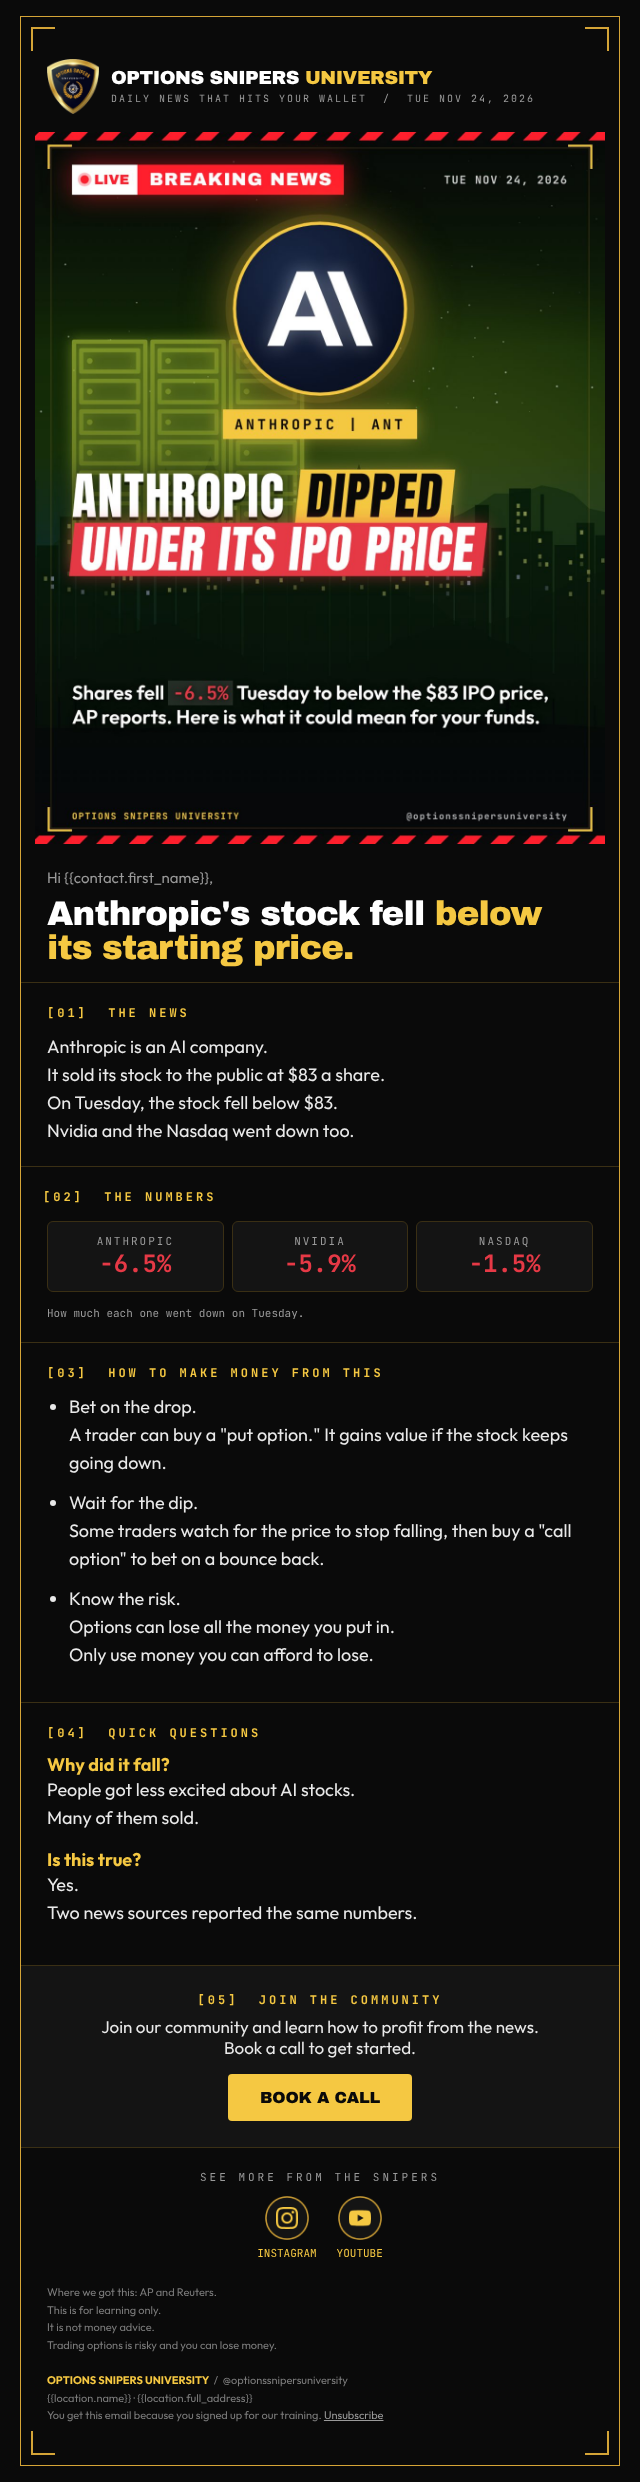
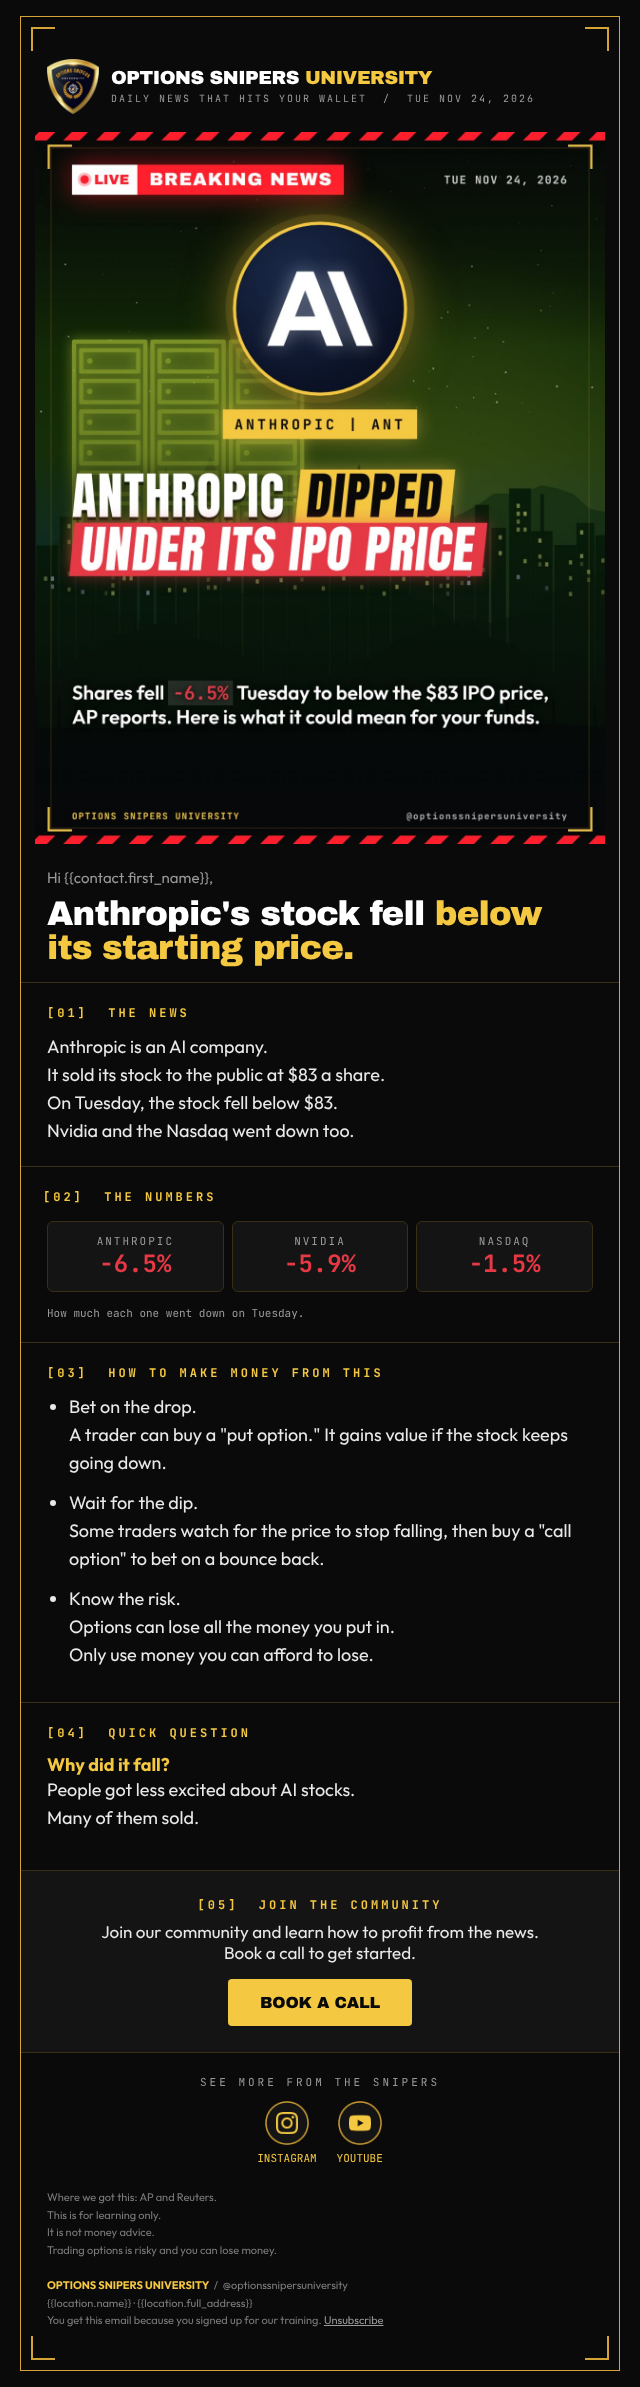
Newsletter: remove 'Is this true' Q&A
Claude-Session: https://claude.ai/code/session_012Jnj24W5oP8eoSDNkGANUC

diff --git a/newsletter/sample/preview.html b/newsletter/sample/preview.html
@@ -12,7 +12,7 @@
 <tr><td style="padding:22px 26px;border-top:1px solid #3a2f14;"><div style="font-family:'JetBrains Mono','Courier New',monospace;font-size:12px;font-weight:bold;letter-spacing:3px;color:#F5C842;margin-bottom:12px;">[01] &nbsp;THE NEWS</div><p style="font-family:'Outfit',Arial,Helvetica,sans-serif;font-size:18px;line-height:1.55;color:#E9E9E9;margin:0;">Anthropic is an AI company.<br>It sold its stock to the public at $83 a share.<br>On Tuesday, the stock fell below $83.<br>Nvidia and the Nasdaq went down too.</p></td></tr>
 <tr><td style="padding:22px 22px;border-top:1px solid #3a2f14;"><div style="font-family:'JetBrains Mono','Courier New',monospace;font-size:12px;font-weight:bold;letter-spacing:3px;color:#F5C842;margin-bottom:12px;">[02] &nbsp;THE NUMBERS</div><table role="presentation" width="100%" cellpadding="0" cellspacing="0"><tr><td width="33%" style="padding:4px;"><div style="background:#141414;border:1px solid #3a2f14;border-radius:6px;padding:12px 6px;text-align:center;"><div style="font-family:'JetBrains Mono','Courier New',monospace;font-size:11px;letter-spacing:2px;color:#9a9a9a;">ANTHROPIC</div><div style="font-family:'JetBrains Mono','Courier New',monospace;font-size:24px;font-weight:bold;color:#E63946;">-6.5%</div></div></td><td width="33%" style="padding:4px;"><div style="background:#141414;border:1px solid #3a2f14;border-radius:6px;padding:12px 6px;text-align:center;"><div style="font-family:'JetBrains Mono','Courier New',monospace;font-size:11px;letter-spacing:2px;color:#9a9a9a;">NVIDIA</div><div style="font-family:'JetBrains Mono','Courier New',monospace;font-size:24px;font-weight:bold;color:#E63946;">-5.9%</div></div></td><td width="33%" style="padding:4px;"><div style="background:#141414;border:1px solid #3a2f14;border-radius:6px;padding:12px 6px;text-align:center;"><div style="font-family:'JetBrains Mono','Courier New',monospace;font-size:11px;letter-spacing:2px;color:#9a9a9a;">NASDAQ</div><div style="font-family:'JetBrains Mono','Courier New',monospace;font-size:24px;font-weight:bold;color:#E63946;">-1.5%</div></div></td></tr></table><p style="font-family:'JetBrains Mono','Courier New',monospace;font-size:11px;color:#9a9a9a;margin:10px 4px 0;">How much each one went down on Tuesday.</p></td></tr>
 <tr><td style="padding:22px 26px;border-top:1px solid #3a2f14;"><div style="font-family:'JetBrains Mono','Courier New',monospace;font-size:12px;font-weight:bold;letter-spacing:3px;color:#F5C842;margin-bottom:12px;">[03] &nbsp;HOW TO MAKE MONEY FROM THIS</div><ul style="font-family:'Outfit',Arial,Helvetica,sans-serif;font-size:18px;line-height:1.55;color:#E9E9E9;margin:0;padding-left:22px;"><li style="margin-bottom:12px;">Bet on the drop.<br>A trader can buy a "put option." It gains value if the stock keeps going down.</li><li style="margin-bottom:12px;">Wait for the dip.<br>Some traders watch for the price to stop falling, then buy a "call option" to bet on a bounce back.</li><li style="margin-bottom:12px;">Know the risk.<br>Options can lose all the money you put in.<br>Only use money you can afford to lose.</li></ul></td></tr>
-<tr><td style="padding:22px 26px;border-top:1px solid #3a2f14;"><div style="font-family:'JetBrains Mono','Courier New',monospace;font-size:12px;font-weight:bold;letter-spacing:3px;color:#F5C842;margin-bottom:12px;">[04] &nbsp;QUICK QUESTIONS</div><div style="margin-bottom:16px;"><div style="font-family:'Outfit',Arial,Helvetica,sans-serif;font-size:18px;font-weight:bold;color:#F5C842;">Why did it fall?</div><div style="font-family:'Outfit',Arial,Helvetica,sans-serif;font-size:18px;line-height:1.55;color:#E9E9E9;margin:0;">People got less excited about AI stocks.<br>Many of them sold.</div></div><div style="margin-bottom:16px;"><div style="font-family:'Outfit',Arial,Helvetica,sans-serif;font-size:18px;font-weight:bold;color:#F5C842;">Is this true?</div><div style="font-family:'Outfit',Arial,Helvetica,sans-serif;font-size:18px;line-height:1.55;color:#E9E9E9;margin:0;">Yes.<br>Two news sources reported the same numbers.</div></div></td></tr>
+<tr><td style="padding:22px 26px;border-top:1px solid #3a2f14;"><div style="font-family:'JetBrains Mono','Courier New',monospace;font-size:12px;font-weight:bold;letter-spacing:3px;color:#F5C842;margin-bottom:12px;">[04] &nbsp;QUICK QUESTION</div><div style="margin-bottom:16px;"><div style="font-family:'Outfit',Arial,Helvetica,sans-serif;font-size:18px;font-weight:bold;color:#F5C842;">Why did it fall?</div><div style="font-family:'Outfit',Arial,Helvetica,sans-serif;font-size:18px;line-height:1.55;color:#E9E9E9;margin:0;">People got less excited about AI stocks.<br>Many of them sold.</div></div></td></tr>
 <tr><td align="center" style="padding:26px;border-top:1px solid #3a2f14;background:#141414;"><div style="font-family:'JetBrains Mono','Courier New',monospace;font-size:12px;font-weight:bold;letter-spacing:3px;color:#F5C842;margin-bottom:8px;">[05] &nbsp;JOIN THE COMMUNITY</div><div style="font-family:'Outfit',Arial,Helvetica,sans-serif;font-size:17px;color:#E9E9E9;margin-bottom:16px;">Join our community and learn how to profit from the news.<br>Book a call to get started.</div><a href="https://example.com/book" style="display:inline-block;background:#F5C842;color:#0A0A0A;font-family:'Archivo Black','Arial Black',Arial,sans-serif;font-size:16px;letter-spacing:-0.01em;text-decoration:none;padding:15px 32px;border-radius:4px;">BOOK A CALL</a></td></tr>
 <tr><td align="center" style="padding:22px 26px 4px;border-top:1px solid #3a2f14;"><div style="font-family:'JetBrains Mono','Courier New',monospace;font-size:11px;letter-spacing:3px;color:#9a9a9a;margin-bottom:12px;">SEE MORE FROM THE SNIPERS</div><table role="presentation" cellpadding="0" cellspacing="0"><tr><td style="padding:0 10px;" align="center"><a href="https://www.instagram.com/optionssnipersuniversity" style="text-decoration:none;"><img src="../icon-instagram.png" width="44" height="44" alt="Instagram" style="display:block;border:0;margin:0 auto;"><div style="font-family:'JetBrains Mono','Courier New',monospace;font-size:11px;color:#F5C842;margin-top:6px;">INSTAGRAM</div></a></td><td style="padding:0 10px;" align="center"><a href="https://www.youtube.com/channel/UCYdhQjWVViYLeouiSkUQpXQ" style="text-decoration:none;"><img src="../icon-youtube.png" width="44" height="44" alt="YouTube" style="display:block;border:0;margin:0 auto;"><div style="font-family:'JetBrains Mono','Courier New',monospace;font-size:11px;color:#F5C842;margin-top:6px;">YOUTUBE</div></a></td></tr></table></td></tr>
 <tr><td style="padding:20px 26px 6px;font-family:'Outfit',Arial,Helvetica,sans-serif;font-size:11px;line-height:1.6;color:#7c7c7c;">Where we got this: AP and Reuters.<br>This is for learning only.<br>It is not money advice.<br>Trading options is risky and you can lose money.<br><br><strong style="color:#F5C842;">OPTIONS SNIPERS UNIVERSITY</strong> &nbsp;/&nbsp; @optionssnipersuniversity<br>{{location.name}} · {{location.full_address}}<br>You get this email because you signed up for our training. <a href="{{unsubscribe_link}}" style="color:#9a9a9a;">Unsubscribe</a></td></tr>

diff --git a/newsletter/email-template.html b/newsletter/email-template.html
@@ -12,7 +12,7 @@
 <tr><td style="padding:22px 26px;border-top:1px solid #3a2f14;"><div style="font-family:'JetBrains Mono','Courier New',monospace;font-size:12px;font-weight:bold;letter-spacing:3px;color:#F5C842;margin-bottom:12px;">[01] &nbsp;THE NEWS</div><p style="font-family:'Outfit',Arial,Helvetica,sans-serif;font-size:18px;line-height:1.55;color:#E9E9E9;margin:0;">[[THE NEWS: 3 short sentences.<br>Who, what, when.<br>Each sentence goes on its own line.]]</p></td></tr>
 <tr><td style="padding:22px 22px;border-top:1px solid #3a2f14;"><div style="font-family:'JetBrains Mono','Courier New',monospace;font-size:12px;font-weight:bold;letter-spacing:3px;color:#F5C842;margin-bottom:12px;">[02] &nbsp;THE NUMBERS</div><table role="presentation" width="100%" cellpadding="0" cellspacing="0"><tr><td width="33%" style="padding:4px;"><div style="background:#141414;border:1px solid #3a2f14;border-radius:6px;padding:12px 6px;text-align:center;"><div style="font-family:'JetBrains Mono','Courier New',monospace;font-size:11px;letter-spacing:2px;color:#9a9a9a;">[[T1_NAME]]</div><div style="font-family:'JetBrains Mono','Courier New',monospace;font-size:24px;font-weight:bold;color:#E63946;">[[T1_MOVE]]</div></div></td><td width="33%" style="padding:4px;"><div style="background:#141414;border:1px solid #3a2f14;border-radius:6px;padding:12px 6px;text-align:center;"><div style="font-family:'JetBrains Mono','Courier New',monospace;font-size:11px;letter-spacing:2px;color:#9a9a9a;">[[T2_NAME]]</div><div style="font-family:'JetBrains Mono','Courier New',monospace;font-size:24px;font-weight:bold;color:#E63946;">[[T2_MOVE]]</div></div></td><td width="33%" style="padding:4px;"><div style="background:#141414;border:1px solid #3a2f14;border-radius:6px;padding:12px 6px;text-align:center;"><div style="font-family:'JetBrains Mono','Courier New',monospace;font-size:11px;letter-spacing:2px;color:#9a9a9a;">[[T3_NAME]]</div><div style="font-family:'JetBrains Mono','Courier New',monospace;font-size:24px;font-weight:bold;color:#E63946;">[[T3_MOVE]]</div></div></td></tr></table><p style="font-family:'JetBrains Mono','Courier New',monospace;font-size:11px;color:#9a9a9a;margin:10px 4px 0;">[[NUMBERS NOTE]]  Green #06D6A0 = up. Red #E63946 = down.</p></td></tr>
 <tr><td style="padding:22px 26px;border-top:1px solid #3a2f14;"><div style="font-family:'JetBrains Mono','Courier New',monospace;font-size:12px;font-weight:bold;letter-spacing:3px;color:#F5C842;margin-bottom:12px;">[03] &nbsp;HOW TO MAKE MONEY FROM THIS</div><ul style="font-family:'Outfit',Arial,Helvetica,sans-serif;font-size:18px;line-height:1.55;color:#E9E9E9;margin:0;padding-left:22px;"><li style="margin-bottom:12px;">[[MONEY_IDEA_1: a way traders can profit, plain words]]</li><li style="margin-bottom:12px;">[[MONEY_IDEA_2: another way]]</li><li style="margin-bottom:12px;">[[MONEY_IDEA_3: the risk to know]]</li></ul></td></tr>
-<tr><td style="padding:22px 26px;border-top:1px solid #3a2f14;"><div style="font-family:'JetBrains Mono','Courier New',monospace;font-size:12px;font-weight:bold;letter-spacing:3px;color:#F5C842;margin-bottom:12px;">[04] &nbsp;QUICK QUESTIONS</div><div style="margin-bottom:16px;"><div style="font-family:'Outfit',Arial,Helvetica,sans-serif;font-size:18px;font-weight:bold;color:#F5C842;">[[Q1]]</div><div style="font-family:'Outfit',Arial,Helvetica,sans-serif;font-size:18px;line-height:1.55;color:#E9E9E9;margin:0;">[[A1: 1-2 short sentences]]</div></div><div style="margin-bottom:16px;"><div style="font-family:'Outfit',Arial,Helvetica,sans-serif;font-size:18px;font-weight:bold;color:#F5C842;">[[Q2]]</div><div style="font-family:'Outfit',Arial,Helvetica,sans-serif;font-size:18px;line-height:1.55;color:#E9E9E9;margin:0;">[[A2: 1-2 short sentences]]</div></div></td></tr>
+<tr><td style="padding:22px 26px;border-top:1px solid #3a2f14;"><div style="font-family:'JetBrains Mono','Courier New',monospace;font-size:12px;font-weight:bold;letter-spacing:3px;color:#F5C842;margin-bottom:12px;">[04] &nbsp;QUICK QUESTION</div><div style="margin-bottom:16px;"><div style="font-family:'Outfit',Arial,Helvetica,sans-serif;font-size:18px;font-weight:bold;color:#F5C842;">[[Q1]]</div><div style="font-family:'Outfit',Arial,Helvetica,sans-serif;font-size:18px;line-height:1.55;color:#E9E9E9;margin:0;">[[A1: 1-2 short sentences]]</div></div></td></tr>
 <tr><td align="center" style="padding:26px;border-top:1px solid #3a2f14;background:#141414;"><div style="font-family:'JetBrains Mono','Courier New',monospace;font-size:12px;font-weight:bold;letter-spacing:3px;color:#F5C842;margin-bottom:8px;">[05] &nbsp;JOIN THE COMMUNITY</div><div style="font-family:'Outfit',Arial,Helvetica,sans-serif;font-size:17px;color:#E9E9E9;margin-bottom:16px;">Join our community and learn how to profit from the news.<br>Book a call to get started.</div><a href="[[BOOKING_LINK]]" style="display:inline-block;background:#F5C842;color:#0A0A0A;font-family:'Archivo Black','Arial Black',Arial,sans-serif;font-size:16px;letter-spacing:-0.01em;text-decoration:none;padding:15px 32px;border-radius:4px;">BOOK A CALL</a></td></tr>
 <tr><td align="center" style="padding:22px 26px 4px;border-top:1px solid #3a2f14;"><div style="font-family:'JetBrains Mono','Courier New',monospace;font-size:11px;letter-spacing:3px;color:#9a9a9a;margin-bottom:12px;">SEE MORE FROM THE SNIPERS</div><table role="presentation" cellpadding="0" cellspacing="0"><tr><td style="padding:0 10px;" align="center"><a href="https://www.instagram.com/optionssnipersuniversity" style="text-decoration:none;"><img src="https://raw.githubusercontent.com/optionssnipers/wall-street-awards/main/newsletter/icon-instagram.png" width="44" height="44" alt="Instagram" style="display:block;border:0;margin:0 auto;"><div style="font-family:'JetBrains Mono','Courier New',monospace;font-size:11px;color:#F5C842;margin-top:6px;">INSTAGRAM</div></a></td><td style="padding:0 10px;" align="center"><a href="https://www.youtube.com/channel/UCYdhQjWVViYLeouiSkUQpXQ" style="text-decoration:none;"><img src="https://raw.githubusercontent.com/optionssnipers/wall-street-awards/main/newsletter/icon-youtube.png" width="44" height="44" alt="YouTube" style="display:block;border:0;margin:0 auto;"><div style="font-family:'JetBrains Mono','Courier New',monospace;font-size:11px;color:#F5C842;margin-top:6px;">YOUTUBE</div></a></td></tr></table></td></tr>
 <tr><td style="padding:20px 26px 6px;font-family:'Outfit',Arial,Helvetica,sans-serif;font-size:11px;line-height:1.6;color:#7c7c7c;">Where we got this: [[SOURCES]].<br>This is for learning only.<br>It is not money advice.<br>Trading options is risky and you can lose money.<br><br><strong style="color:#F5C842;">OPTIONS SNIPERS UNIVERSITY</strong> &nbsp;/&nbsp; @optionssnipersuniversity<br>{{location.name}} · {{location.full_address}}<br>You get this email because you signed up for our training. <a href="{{unsubscribe_link}}" style="color:#9a9a9a;">Unsubscribe</a></td></tr>

diff --git a/newsletter/build.py b/newsletter/build.py
@@ -22,7 +22,7 @@ def page(v,logo,cover,fonts='',ICON=''):
     li=''.join(f'<li style="margin-bottom:12px;">{nl(b)}</li>' for b in v['BUL'])
     r.append(sec('03','HOW TO MAKE MONEY FROM THIS',f'<ul style="{p}padding-left:22px;">{li}</ul>'))
     qa=''.join(f'<div style="margin-bottom:16px;"><div style="{B}font-size:18px;font-weight:bold;color:{GOLD};">{q}</div><div style="{p}">{nl(a)}</div></div>' for q,a in v['QA'])
-    r.append(sec('04','QUICK QUESTIONS',qa))
+    r.append(sec('04','QUICK QUESTION',qa))
     r.append(f'''<tr><td align="center" style="padding:26px;border-top:1px solid {LINE};background:{PANEL};"><div style="{M}font-size:12px;font-weight:bold;letter-spacing:3px;color:{GOLD};margin-bottom:8px;">[05] &nbsp;JOIN THE COMMUNITY</div><div style="{B}font-size:17px;color:{TXT};margin-bottom:16px;">{nl(v['CTATEXT'])}</div><a href="{v['CTAURL']}" style="display:inline-block;background:{GOLD};color:#0A0A0A;{H}font-size:16px;letter-spacing:-0.01em;text-decoration:none;padding:15px 32px;border-radius:4px;">{v['CTABTN']}</a></td></tr>''')
     r.append(f'''<tr><td align="center" style="padding:22px 26px 4px;border-top:1px solid {LINE};"><div style="{M}font-size:11px;letter-spacing:3px;color:{MUTED};margin-bottom:12px;">SEE MORE FROM THE SNIPERS</div><table role="presentation" cellpadding="0" cellspacing="0"><tr><td style="padding:0 10px;" align="center"><a href="https://www.instagram.com/optionssnipersuniversity" style="text-decoration:none;"><img src="{ICON}icon-instagram.png" width="44" height="44" alt="Instagram" style="display:block;border:0;margin:0 auto;"><div style="{M}font-size:11px;color:{GOLD};margin-top:6px;">INSTAGRAM</div></a></td><td style="padding:0 10px;" align="center"><a href="https://www.youtube.com/channel/UCYdhQjWVViYLeouiSkUQpXQ" style="text-decoration:none;"><img src="{ICON}icon-youtube.png" width="44" height="44" alt="YouTube" style="display:block;border:0;margin:0 auto;"><div style="{M}font-size:11px;color:{GOLD};margin-top:6px;">YOUTUBE</div></a></td></tr></table></td></tr>''')
     r.append(f'''<tr><td style="padding:20px 26px 6px;{B}font-size:11px;line-height:1.6;color:#7c7c7c;">Where we got this: {v['SRC']}.<br>This is for learning only.<br>It is not money advice.<br>Trading options is risky and you can lose money.<br><br><strong style="color:{GOLD};">OPTIONS SNIPERS UNIVERSITY</strong> &nbsp;/&nbsp; @optionssnipersuniversity<br>{{{{location.name}}}} · {{{{location.full_address}}}}<br>You get this email because you signed up for our training. <a href="{{{{unsubscribe_link}}}}" style="color:{MUTED};">Unsubscribe</a></td></tr>''')
@@ -45,13 +45,13 @@ def fontcss():
 G=f'<span style="color:{GOLD};">'
 ph={'PRE':'[[PREHEADER: one short sentence]]','DATE':'[[DATE]]','ALT':'[[ALT: headline]]','HEADLINE':'[[HEADLINE: short and plain. Wrap the key words in a gold span.]]','NEWS':'[[THE NEWS: 3 short sentences. Who, what, when. Each sentence goes on its own line.]]',
 'T1':('[[T1_NAME]]','[[T1_MOVE]]'),'T2':('[[T2_NAME]]','[[T2_MOVE]]'),'T3':('[[T3_NAME]]','[[T3_MOVE]]'),'NUMNOTE':'[[NUMBERS NOTE]]  Green #06D6A0 = up. Red #E63946 = down.',
-'BUL':['[[MONEY_IDEA_1: a way traders can profit, plain words]]','[[MONEY_IDEA_2: another way]]','[[MONEY_IDEA_3: the risk to know]]'],'QA':[('[[Q1]]','[[A1: 1-2 short sentences]]'),('[[Q2]]','[[A2: 1-2 short sentences]]')],
+'BUL':['[[MONEY_IDEA_1: a way traders can profit, plain words]]','[[MONEY_IDEA_2: another way]]','[[MONEY_IDEA_3: the risk to know]]'],'QA':[('[[Q1]]','[[A1: 1-2 short sentences]]')],
 'CTATEXT':'Join our community and learn how to profit from the news. Book a call to get started.','CTABTN':'BOOK A CALL','CTAURL':'[[BOOKING_LINK]]','SRC':'[[SOURCES]]'}
 open('email-template.html','w').write(page(ph,'osu-logo.png','[[COVER_URL]]',ICON='https://raw.githubusercontent.com/optionssnipers/wall-street-awards/main/newsletter/'))
 sm={'PRE':'The biggest AI stock sale of the year just dipped. Here is what it means for you.','DATE':'TUE NOV 24, 2026','ALT':'Anthropic fell below its IPO price','HEADLINE':f'Anthropic\'s stock fell {G}below its starting price.</span>',
 'NEWS':'Anthropic is an AI company. It sold its stock to the public at $83 a share. On Tuesday, the stock fell below $83. Nvidia and the Nasdaq went down too.',
 'T1':('ANTHROPIC','-6.5%'),'T2':('NVIDIA','-5.9%'),'T3':('NASDAQ','-1.5%'),'NUMNOTE':'How much each one went down on Tuesday.',
 'BUL':['Bet on the drop. A trader can buy a "put option." It gains value if the stock keeps going down.','Wait for the dip. Some traders watch for the price to stop falling, then buy a "call option" to bet on a bounce back.','Know the risk. Options can lose all the money you put in. Only use money you can afford to lose.'],
-'QA':[('Why did it fall?','People got less excited about AI stocks. Many of them sold.'),('Is this true?','Yes. Two news sources reported the same numbers.')],
+'QA':[('Why did it fall?','People got less excited about AI stocks. Many of them sold.')],
 'CTATEXT':'Join our community and learn how to profit from the news. Book a call to get started.','CTABTN':'BOOK A CALL','CTAURL':'https://example.com/book','SRC':'AP and Reuters'}
 open('sample/preview.html','w').write(page(sm,'../osu-logo.png','cover.jpg',fontcss(),ICON='../'))
